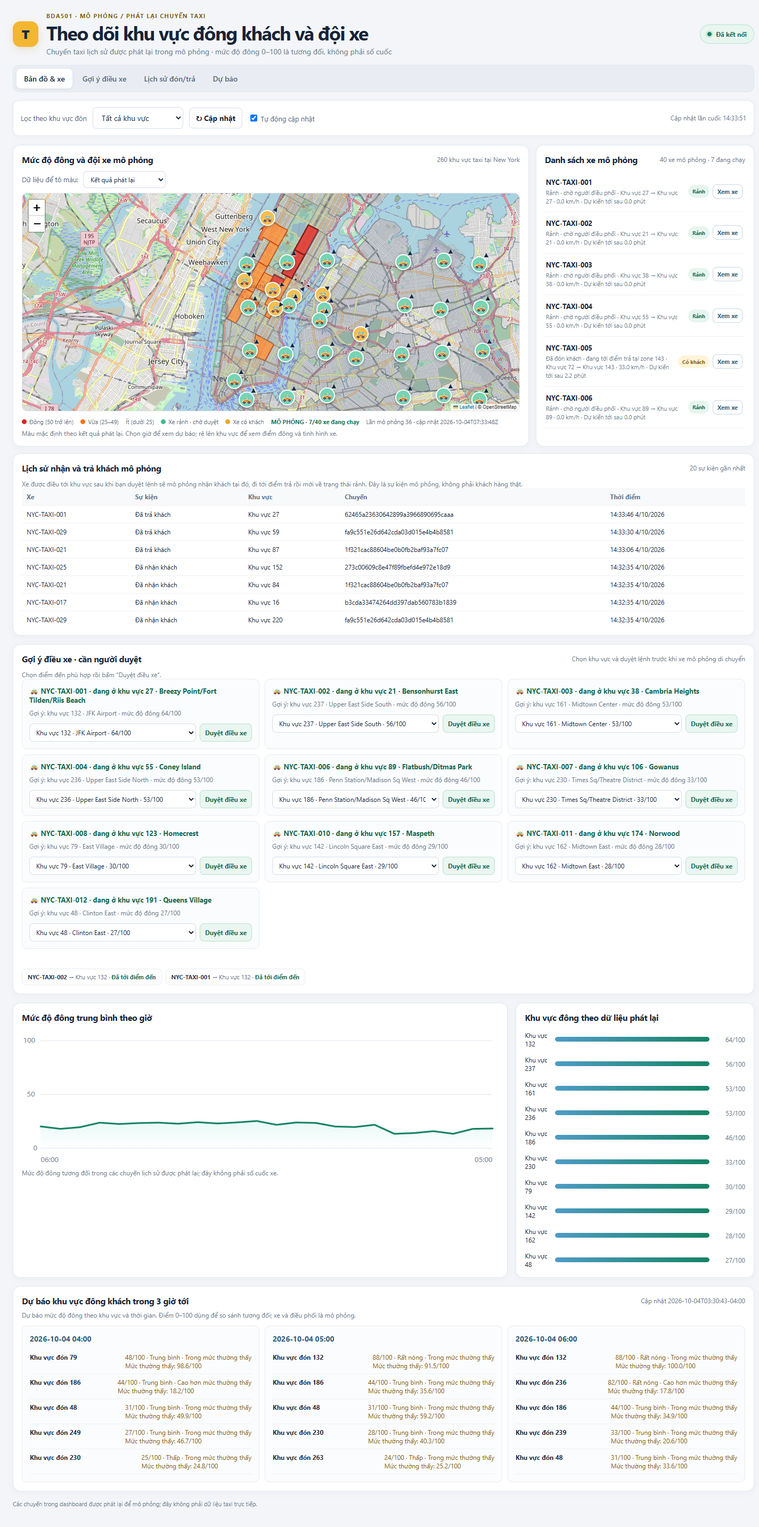
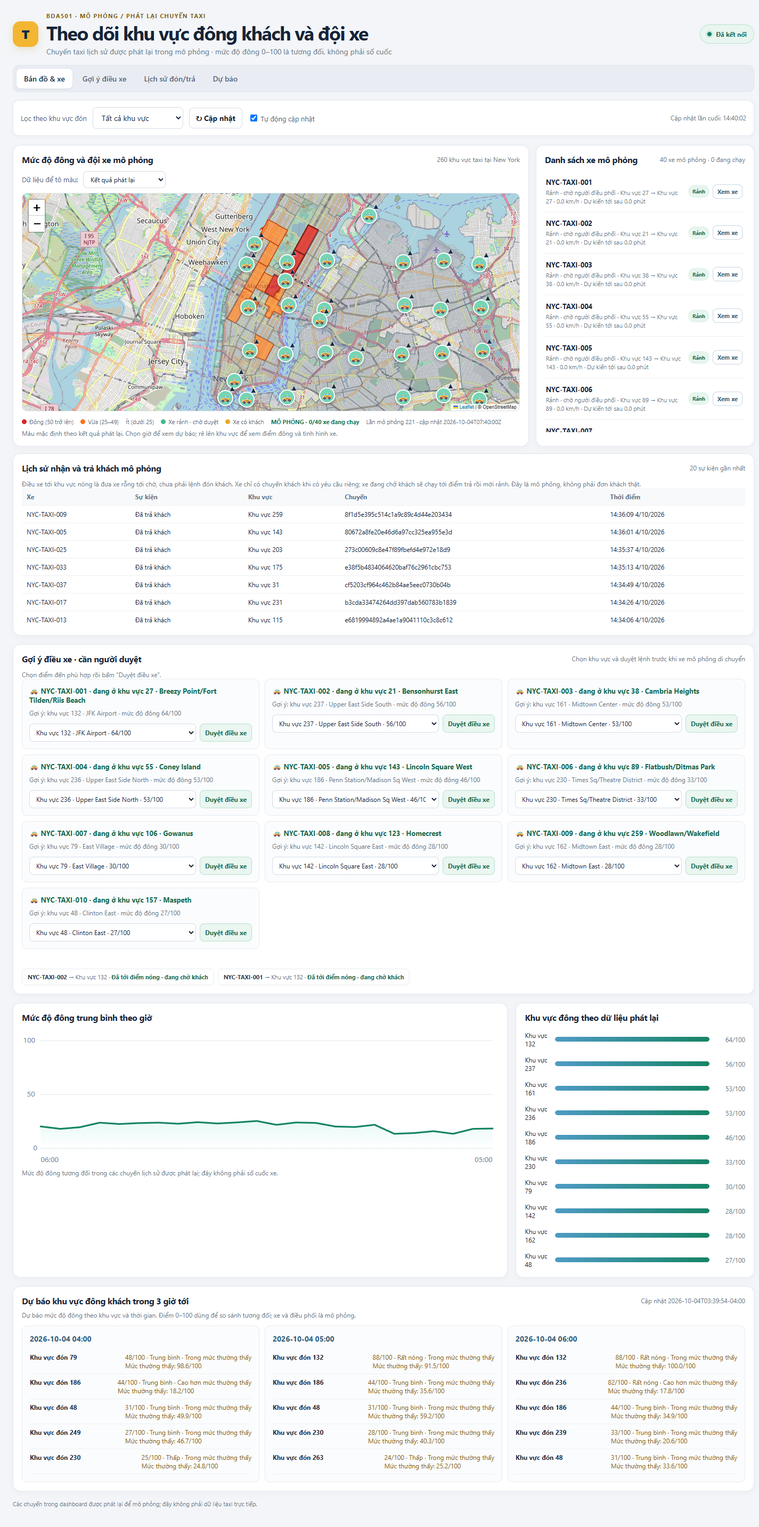
Separate vehicle staging from passenger trips

diff --git a/dashboard/app.py b/dashboard/app.py
@@ -71,7 +71,7 @@ PAGE = """
 
   <div id="ban-do" class="map-layout"><section><div class="section-head"><h2>Mức độ đông và đội xe mô phỏng</h2><span class="hint">260 khu vực taxi tại New York</span></div><div class="map-controls"><label for="mapForecastHour">Dữ liệu để tô màu:</label><select id="mapForecastHour"><option value="replay">Kết quả phát lại</option><option value="forecast-0">Đang tải dự báo...</option></select></div><div id="map" role="region" aria-label="Bản đồ khu vực taxi New York, mức độ đông theo dữ liệu phát lại hoặc dự báo và vị trí xe mô phỏng"></div><div class="legend"><span><i class="dot hotspot"></i>Đông (50 trở lên)</span><span><i class="dot medium"></i>Vừa (25–49)</span><span>Ít (dưới 25)</span><span><i class="dot available"></i>Xe rảnh · chờ duyệt</span><span><i class="dot occupied"></i>Xe có khách</span><span id="movementStatus">—</span><span id="latestVehicle">—</span></div><div class="chart-note">Màu mặc định theo kết quả phát lại. Chọn giờ để xem dự báo; rê lên khu vực để xem điểm đông và tình hình xe.</div></section><section><div class="section-head"><h2>Danh sách xe mô phỏng</h2><span class="hint" id="fleetCount">—</span></div><div id="fleetList" class="fleet-list"><div class="chart-note">Đang tải dữ liệu xe...</div></div></section></div>
 
-  <section id="su-kien" style="margin-bottom:16px"><div class="section-head"><h2>Lịch sử nhận và trả khách mô phỏng</h2><span class="hint">20 sự kiện gần nhất</span></div><div class="chart-note">Xe được điều tới khu vực sau khi bạn duyệt lệnh sẽ mô phỏng nhận khách tại đó, đi tới điểm trả rồi mới về trạng thái rảnh. Đây là sự kiện mô phỏng, không phải khách hàng thật.</div><div class="table-wrap"><table><thead><tr><th>Xe</th><th>Sự kiện</th><th>Khu vực</th><th>Chuyến</th><th>Thời điểm</th></tr></thead><tbody id="vehicleTripEvents"><tr><td colspan="5">Đang tải sự kiện...</td></tr></tbody></table></div></section>
+  <section id="su-kien" style="margin-bottom:16px"><div class="section-head"><h2>Lịch sử nhận và trả khách mô phỏng</h2><span class="hint">20 sự kiện gần nhất</span></div><div class="chart-note">Điều xe tới khu vực nóng là đưa xe rỗng tới chờ, chưa phải lệnh đón khách. Xe chỉ có chuyến khách khi có yêu cầu riêng; xe đang chở khách sẽ chạy tới điểm trả rồi mới rảnh. Đây là mô phỏng, không phải đơn khách thật.</div><div class="table-wrap"><table><thead><tr><th>Xe</th><th>Sự kiện</th><th>Khu vực</th><th>Chuyến</th><th>Thời điểm</th></tr></thead><tbody id="vehicleTripEvents"><tr><td colspan="5">Đang tải sự kiện...</td></tr></tbody></table></div></section>
 
   <section id="dieu-phoi" style="margin-bottom:16px"><div class="section-head"><h2>Gợi ý điều xe · cần người duyệt</h2><span class="hint">Chọn khu vực và duyệt lệnh trước khi xe mô phỏng di chuyển</span></div><div class="chart-note">Chọn điểm đến phù hợp rồi bấm “Duyệt điều xe”.</div><div id="dispatch" class="dispatch-grid"><div class="chart-note">Đang tính đề xuất...</div></div><div id="dispatchMessage" class="dispatch-message" role="status" aria-live="polite"></div><div id="dispatchCommands" class="command-list" aria-live="polite"></div></section>
 
@@ -89,7 +89,7 @@ function updateHotspotMap(){if(!zoneLayer||!zoneLayer.getLayers().length)return;
 async function loadZones(){const zones=await fetch('/api/zones').then(r=>r.json());knownZones=zones;zones.forEach(z=>{const o=document.createElement('option');o.value=z;o.textContent=`Khu vực đón ${z}`;zoneSelect.appendChild(o);});}
  function drawTrend(series){const values=series.map(x=>Number(x.value||0)),max=100,left=30,top=20,width=720,height=190;document.querySelector('#trendEmpty').style.display=values.length?'none':'block';const stamp=value=>{const text=String(value||'');return text.length>=13?`${text.slice(11,13)}:00`:text.slice(0,10);};document.querySelector('#trendStart').textContent=values.length?stamp(series[0].bucket):'—';document.querySelector('#trendEnd').textContent=values.length?stamp(series[series.length-1].bucket):'—';const points=values.map((v,i)=>`${left+(values.length===1?width/2:i*width/(values.length-1))},${top+height-(Math.max(0,Math.min(max,v))/max)*height}`).join(' ');document.querySelector('#linePath').setAttribute('d',points?`M ${points}`:'');document.querySelector('#areaPath').setAttribute('d',points?`M ${left} ${top+height} L ${points} L ${left+width} ${top+height} Z`:'');}
 function renderTripEvents(events){const labels={passenger_pickup:'Đã nhận khách',passenger_dropoff:'Đã trả khách'};document.querySelector('#vehicleTripEvents').innerHTML=events.length?events.map(event=>`<tr><td>${esc(event.vehicle_id)}</td><td>${esc(labels[event.event_type]||event.event_type)}</td><td>Khu vực ${esc(event.zone)}</td><td>${esc(event.ride_id||'—')}</td><td>${esc(new Date(event.event_time).toLocaleString())}</td></tr>`).join(''):'<tr><td colspan="5">Chưa có sự kiện nhận/trả khách. Xe sẽ ghi sự kiện sau khi có hành trình mô phỏng.</td></tr>';}
- function renderDispatch(data){const zoneNameById=new Map(dispatchZoneCatalog.map(zone=>[zone.id,zone.name])),hotspots=data.hotspots||[],scoreByZone=new Map(hotspots.map(zone=>[String(zone.zone),zone])),suggestedZones=hotspots.map(zone=>({id:String(zone.zone),name:zoneNameById.get(String(zone.zone))||'',score:Number(zone.hotspot_score||0)})),suggestedIds=new Set(suggestedZones.map(zone=>zone.id)),allZones=[...suggestedZones,...dispatchZoneCatalog.filter(zone=>!suggestedIds.has(zone.id)).map(zone=>({...zone,score:null}))];document.querySelector('#dispatch').innerHTML=data.recommendations.length?data.recommendations.map(x=>`<div class="dispatch-card" data-recommendation="${esc(x.vehicle_id)}"><strong>🚕 ${esc(x.vehicle_id)} · đang ở khu vực ${esc(x.from_zone)}${zoneNameById.get(String(x.from_zone))?' · '+esc(zoneNameById.get(String(x.from_zone))):''}</strong><span>Gợi ý: khu vực ${esc(x.target_zone)}${zoneNameById.get(String(x.target_zone))?' · '+esc(zoneNameById.get(String(x.target_zone))):''} · mức độ đông ${Number(x.hotspot_score).toFixed(0)}/100</span><div class="dispatch-controls"><select class="dispatch-target" aria-label="Chọn điểm đến cho ${esc(x.vehicle_id)}">${allZones.map(zone=>{const score=scoreByZone.get(zone.id);return `<option value="${esc(zone.id)}" ${zone.id===String(x.target_zone)?'selected':''}>Khu vực ${esc(zone.id)}${zone.name?` · ${esc(zone.name)}`:''}${score?` · ${Number(score.hotspot_score).toFixed(0)}/100`:''}</option>`;}).join('')}</select><button type="button" data-approve-vehicle="${esc(x.vehicle_id)}">Duyệt điều xe</button></div></div>`).join(''):'<div class="chart-note">Hiện không có xe rảnh cần điều phối.</div>';const labels={approved:'Đã duyệt · chờ xe mô phỏng',routing:'Đang tạo tuyến',en_route:'Đang đi tới điểm đã duyệt',arrived:'Đã tới điểm đến',rejected:'Không thực hiện được'};document.querySelector('#dispatchCommands').innerHTML=(data.commands||[]).map(x=>`<span class="command-item"><b>${esc(x.vehicle_id)}</b> → Khu vực ${esc(x.target_zone)} · <span class="command-status">${esc(labels[x.status]||x.status)}</span></span>`).join('');}
+ function renderDispatch(data){const zoneNameById=new Map(dispatchZoneCatalog.map(zone=>[zone.id,zone.name])),hotspots=data.hotspots||[],scoreByZone=new Map(hotspots.map(zone=>[String(zone.zone),zone])),suggestedZones=hotspots.map(zone=>({id:String(zone.zone),name:zoneNameById.get(String(zone.zone))||'',score:Number(zone.hotspot_score||0)})),suggestedIds=new Set(suggestedZones.map(zone=>zone.id)),allZones=[...suggestedZones,...dispatchZoneCatalog.filter(zone=>!suggestedIds.has(zone.id)).map(zone=>({...zone,score:null}))];document.querySelector('#dispatch').innerHTML=data.recommendations.length?data.recommendations.map(x=>`<div class="dispatch-card" data-recommendation="${esc(x.vehicle_id)}"><strong>🚕 ${esc(x.vehicle_id)} · đang ở khu vực ${esc(x.from_zone)}${zoneNameById.get(String(x.from_zone))?' · '+esc(zoneNameById.get(String(x.from_zone))):''}</strong><span>Gợi ý: khu vực ${esc(x.target_zone)}${zoneNameById.get(String(x.target_zone))?' · '+esc(zoneNameById.get(String(x.target_zone))):''} · mức độ đông ${Number(x.hotspot_score).toFixed(0)}/100</span><div class="dispatch-controls"><select class="dispatch-target" aria-label="Chọn điểm đến cho ${esc(x.vehicle_id)}">${allZones.map(zone=>{const score=scoreByZone.get(zone.id);return `<option value="${esc(zone.id)}" ${zone.id===String(x.target_zone)?'selected':''}>Khu vực ${esc(zone.id)}${zone.name?` · ${esc(zone.name)}`:''}${score?` · ${Number(score.hotspot_score).toFixed(0)}/100`:''}</option>`;}).join('')}</select><button type="button" data-approve-vehicle="${esc(x.vehicle_id)}">Duyệt điều xe</button></div></div>`).join(''):'<div class="chart-note">Hiện không có xe rảnh cần điều phối.</div>';const labels={approved:'Đã duyệt · chờ xe mô phỏng',routing:'Đang tạo tuyến',en_route:'Xe rỗng · đang tới khu vực',arrived:'Đã tới điểm nóng · đang chờ khách',rejected:'Không thực hiện được'};document.querySelector('#dispatchCommands').innerHTML=(data.commands||[]).map(x=>`<span class="command-item"><b>${esc(x.vehicle_id)}</b> → Khu vực ${esc(x.target_zone)} · <span class="command-status">${esc(labels[x.status]||x.status)}</span></span>`).join('');}
 async function approveDispatch(button){const card=button.closest('[data-recommendation]'),vehicleId=card?.dataset.recommendation,targetZone=card?.querySelector('.dispatch-target')?.value,message=document.querySelector('#dispatchMessage');if(!vehicleId||!targetZone||!window.confirm(`Xác nhận điều xe ${vehicleId} tới khu vực ${targetZone}?`))return;button.disabled=true;button.textContent='Đang gửi lệnh…';message.textContent='';try{const response=await fetch(`/api/vehicles/${encodeURIComponent(vehicleId)}/dispatch`,{method:'POST',headers:{'Content-Type':'application/json'},body:JSON.stringify({target_zone:targetZone})}),result=await response.json();if(!response.ok)throw new Error(result.error||`HTTP ${response.status}`);message.textContent=`Đã duyệt xe ${vehicleId} tới khu vực ${targetZone}. Mô phỏng sẽ tạo tuyến đường.`;await refresh();}catch(error){message.textContent=`Chưa gửi được lệnh: ${error.message}`;button.disabled=false;button.textContent='Duyệt điều xe';}}
  renderUpcoming=function renderUpcomingCalendarModel(data){const headline=document.querySelector('#forecastHeadline');headline.textContent=data.available?`Cập nhật ${esc(data.generated_at)}`:`Dự báo chưa sẵn sàng: ${esc(data.message||'Chưa có kết quả')}`;document.querySelector('#forecastNote').textContent='Dự báo mức độ đông theo khu vực và thời gian. Điểm 0–100 dùng để so sánh tương đối; xe và điều phối là mô phỏng.';const select=document.querySelector('#mapForecastHour'),previous=select.value||'replay';activeForecasts=data.forecasts||[];select.innerHTML=`<option value="replay">Kết quả phát lại</option>${activeForecasts.map((window,index)=>`<option value="forecast-${index}">${esc(window.label)}</option>`).join('')}`;select.value=previous==='replay'||!activeForecasts[Number(previous.replace('forecast-',''))]? 'replay':previous;select.onchange=updateHotspotMap;document.querySelector('#upcomingHotspots').innerHTML=activeForecasts.map(window=>`<div class="forecast-card"><h3>${esc(window.label)}</h3>${window.zones.slice(0,5).map(zone=>`<div class="forecast-zone"><b>Khu vực đón ${esc(zone.zone)}</b><span>${Number(zone.hotspot_score).toFixed(0)}/100 · ${esc(zone.hotspot_level)} · ${anomalyText(zone.alert_flag,zone.historical_baseline_samples)}<br>${baselineText(zone.historical_baseline_samples,zone.historical_mean_score)}</span></div>`).join('')||'<div class="chart-note">Chưa có khu vực để dự báo.</div>'}</div>`).join('')||'<div class="chart-note">Chưa có dự báo. Thử cập nhật lại sau.</div>';updateHotspotMap();};
   let refreshInProgress=false;
@@ -106,7 +106,7 @@ function liveVehicleIcon(vehicle){const heading=Number(vehicle.heading_degrees||
 function liveVehiclePopup(vehicle){const status=vehicle.route_status||(vehicle.status==='occupied'?'Đang chở khách · hoàn tất chuyến mô phỏng':'Rảnh · chờ người điều phối');return `<b>${esc(vehicle.vehicle_id)}</b><br>Trạng thái: ${esc(status)}<br>Tuyến: Khu ${esc(vehicle.pickup_zone)} → Khu ${esc(vehicle.dropoff_zone)}<br>Tốc độ: ${Number(vehicle.speed_kmh||0).toFixed(1)} km/h · Hướng: ${Number(vehicle.heading_degrees||0).toFixed(0)}°<br>Tiến độ: ${Number(vehicle.progress_pct||0).toFixed(0)}% · ETA: ${Number(vehicle.eta_minutes||0).toFixed(1)} phút`;}
 function focusVehicle(vehicleId){const marker=liveMarkers[vehicleId];if(!marker||!map)return;document.querySelector('#ban-do').scrollIntoView({behavior:'smooth',block:'start'});map.stop();map.setView(marker.getLatLng(),Math.max(map.getZoom(),14),{animate:false});marker.openPopup();marker.setZIndexOffset(1800);window.setTimeout(()=>marker.setZIndexOffset(1000),2500);}
 function animateLiveMarker(marker,target){if(marker._motionFrame)cancelAnimationFrame(marker._motionFrame);const start=marker.getLatLng(),started=performance.now(),duration=1800;const tick=now=>{const progress=Math.min(1,(now-started)/duration);marker.setLatLng([start.lat+(target[0]-start.lat)*progress,start.lng+(target[1]-start.lng)*progress]);if(progress<1)marker._motionFrame=requestAnimationFrame(tick);};marker._motionFrame=requestAnimationFrame(tick);}
-renderFleet=function renderLiveFleet(items){fleetVehicles=items;const activeDispatch=['routing','en_route'],available=items.filter(x=>x.status==='available'&&!activeDispatch.includes(x.dispatch_status)).length,occupied=items.filter(x=>x.status==='occupied').length,moving=items.filter(x=>Number(x.speed_kmh||0)>0).length;document.querySelector('#fleetCount').textContent=`${items.length} xe mô phỏng · ${moving} đang chạy`;document.querySelector('#movementStatus').textContent=`MÔ PHỎNG · ${moving}/${items.length} xe đang chạy`;document.querySelector('#fleetList').innerHTML=items.length?items.map(v=>`<div class="vehicle"><div class="vehicle-info"><div class="vehicle-id">${esc(v.vehicle_id)}</div><div class="vehicle-meta">${esc(v.route_status||'Đang chạy')} · Khu vực ${esc(v.pickup_zone)} → Khu vực ${esc(v.dropoff_zone)} · ${Number(v.speed_kmh||0).toFixed(1)} km/h · Dự kiến tới sau ${Number(v.eta_minutes||0).toFixed(1)} phút</div></div><div class="vehicle-actions"><span class="status ${v.status}">${v.status==='occupied'?'Có khách':v.dispatch_status==='routing'?'Đang tạo tuyến':v.dispatch_status==='en_route'?'Đang tới khu vực đã duyệt':v.dispatch_status==='arrived'?'Đã tới điểm đến':'Rảnh'}</span><button class="vehicle-locate" type="button" data-focus-vehicle="${esc(v.vehicle_id)}" aria-label="Xem vị trí xe ${esc(v.vehicle_id)}">Xem xe</button></div></div>`).join(''):'<div class="chart-note">Chưa có snapshot xe.</div>';if(markers){const bounds=[];const activeIds=new Set(items.map(v=>v.vehicle_id));items.forEach(vehicle=>{const target=[Number(vehicle.latitude),Number(vehicle.longitude)];bounds.push(target);let marker=liveMarkers[vehicle.vehicle_id];if(!marker){marker=L.marker(target,{icon:liveVehicleIcon(vehicle),zIndexOffset:1000}).addTo(markers);liveMarkers[vehicle.vehicle_id]=marker;}else{marker.setIcon(liveVehicleIcon(vehicle));animateLiveMarker(marker,target);}marker.bindPopup(liveVehiclePopup(vehicle));});Object.keys(liveMarkers).forEach(id=>{if(!activeIds.has(id)){if(liveMarkers[id]._motionFrame)cancelAnimationFrame(liveMarkers[id]._motionFrame);markers.removeLayer(liveMarkers[id]);delete liveMarkers[id];}});if(bounds.length&&!window.mapHasFitted){map.fitBounds(bounds,{padding:[30,30],maxZoom:12});window.mapHasFitted=true;}}updateHotspotMap();document.querySelector('#latestVehicle').textContent=items.length?`Lần mô phỏng ${items[0].simulation_cycle} · cập nhật ${items[0].updated_at}`:'Chưa có snapshot';};
+renderFleet=function renderLiveFleet(items){fleetVehicles=items;const activeDispatch=['routing','en_route'],available=items.filter(x=>x.status==='available'&&!activeDispatch.includes(x.dispatch_status)).length,occupied=items.filter(x=>x.status==='occupied').length,moving=items.filter(x=>Number(x.speed_kmh||0)>0).length;document.querySelector('#fleetCount').textContent=`${items.length} xe mô phỏng · ${moving} đang chạy`;document.querySelector('#movementStatus').textContent=`MÔ PHỎNG · ${moving}/${items.length} xe đang chạy`;document.querySelector('#fleetList').innerHTML=items.length?items.map(v=>`<div class="vehicle"><div class="vehicle-info"><div class="vehicle-id">${esc(v.vehicle_id)}</div><div class="vehicle-meta">${esc(v.route_status||'Đang chạy')} · Khu vực ${esc(v.pickup_zone)} → Khu vực ${esc(v.dropoff_zone)} · ${Number(v.speed_kmh||0).toFixed(1)} km/h · Dự kiến tới sau ${Number(v.eta_minutes||0).toFixed(1)} phút</div></div><div class="vehicle-actions"><span class="status ${v.status}">${v.status==='occupied'?'Có khách':v.dispatch_status==='routing'?'Đang tạo tuyến':v.dispatch_status==='en_route'?'Xe rỗng · đang tới khu vực':v.dispatch_status==='staged'?'Rảnh · chờ khách tại khu vực':'Rảnh'}</span><button class="vehicle-locate" type="button" data-focus-vehicle="${esc(v.vehicle_id)}" aria-label="Xem vị trí xe ${esc(v.vehicle_id)}">Xem xe</button></div></div>`).join(''):'<div class="chart-note">Chưa có snapshot xe.</div>';if(markers){const bounds=[];const activeIds=new Set(items.map(v=>v.vehicle_id));items.forEach(vehicle=>{const target=[Number(vehicle.latitude),Number(vehicle.longitude)];bounds.push(target);let marker=liveMarkers[vehicle.vehicle_id];if(!marker){marker=L.marker(target,{icon:liveVehicleIcon(vehicle),zIndexOffset:1000}).addTo(markers);liveMarkers[vehicle.vehicle_id]=marker;}else{marker.setIcon(liveVehicleIcon(vehicle));animateLiveMarker(marker,target);}marker.bindPopup(liveVehiclePopup(vehicle));});Object.keys(liveMarkers).forEach(id=>{if(!activeIds.has(id)){if(liveMarkers[id]._motionFrame)cancelAnimationFrame(liveMarkers[id]._motionFrame);markers.removeLayer(liveMarkers[id]);delete liveMarkers[id];}});if(bounds.length&&!window.mapHasFitted){map.fitBounds(bounds,{padding:[30,30],maxZoom:12});window.mapHasFitted=true;}}updateHotspotMap();document.querySelector('#latestVehicle').textContent=items.length?`Lần mô phỏng ${items[0].simulation_cycle} · cập nhật ${items[0].updated_at}`:'Chưa có snapshot';};
 document.querySelector('#fleetList').addEventListener('click',event=>{const button=event.target.closest('[data-focus-vehicle]');if(button)focusVehicle(button.dataset.focusVehicle);});
 </script></body></html>
 """

diff --git a/streaming/producer.py b/streaming/producer.py
@@ -189,26 +189,6 @@ def emit_vehicle_trip_event(state, event_type):
     print(f"[TRIP_EVENT] {event_type}: {state['vehicle_id']} zone {zone}", flush=True)
 
 
-def start_passenger_trip_after_dispatch(state):
-    """Simulate a waiting rider after an approved reposition reaches its pickup zone."""
-    state["trip_number"] += 1
-    state["active_ride_id"] = state.get("dispatch_command_id") or uuid.uuid4().hex
-    state["trip_source"] = "human_approved_dispatch_simulation"
-    state["status"] = "occupied"
-    state["dispatch_status"] = "passenger_trip"
-    state["dropoff_zone"] = str(4 + ((state["vehicle_index"] * 29 + state["trip_number"] * 23) % 260))
-    state["destination_latitude"], state["destination_longitude"] = destination_for(
-        state["vehicle_index"], state["trip_number"]
-    )
-    state["route_start_latitude"] = state["latitude"]
-    state["route_start_longitude"] = state["longitude"]
-    state["pickup_event_emitted"] = True
-    clear_route(state)
-    state["route_retry_at"] = 0.0
-    state["route_error"] = None
-    emit_vehicle_trip_event(state, "passenger_pickup")
-
-
 def request_drive_route(state, now):
     """Fetch an OSRM driving route; leave the vehicle stopped if unavailable."""
     global last_route_request_at
@@ -261,13 +241,14 @@ def complete_vehicle_route(state):
         state["trip_source"] = None
         state["pickup_event_emitted"] = False
     else:
-        state["dispatch_status"] = "arrived"
+        state["dispatch_status"] = "staged"
         state["pickup_zone"] = state["dispatch_target_zone"] or state["pickup_zone"]
+        state["destination_latitude"] = state["latitude"]
+        state["destination_longitude"] = state["longitude"]
         dispatch_commands.update_one(
             {"command_id": state["dispatch_command_id"]},
             {"$set": {"status": "arrived", "arrived_at": time.strftime("%Y-%m-%dT%H:%M:%SZ", time.gmtime())}},
         )
-        start_passenger_trip_after_dispatch(state)
 
 
 def process_dispatch_commands():
@@ -324,7 +305,7 @@ def advance_vehicle(state, elapsed_seconds):
     dispatch_status = state["dispatch_status"]
     if status == "available" and dispatch_status not in {"routing", "en_route"}:
         state["speed_kmh"] = 0.0
-        return 0.0, 0.0, 0.0, 100.0 if dispatch_status == "arrived" else 0.0
+        return 0.0, 0.0, 0.0, 100.0 if dispatch_status == "staged" else 0.0
     speed_kmh = 28 + (state["vehicle_index"] * 7 + state["trip_number"]) % 24 if status == "occupied" else 14 + state["vehicle_index"] % 10
     now = time.monotonic()
     if not state["route_coordinates"] and not request_drive_route(state, now):
@@ -385,9 +366,9 @@ def send_vehicle_snapshot(cycle_number):
         elif state["dispatch_status"] == "routing":
             route_status = "Đã duyệt · đang tạo tuyến đường"
         elif state["dispatch_status"] == "en_route":
-            route_status = f"Đang tới zone {state['dispatch_target_zone']} · đã được duyệt"
-        elif state["dispatch_status"] == "arrived":
-            route_status = f"Đã tới zone {state['dispatch_target_zone']} theo lệnh điều phối"
+            route_status = f"Đang tới zone {state['dispatch_target_zone']} · xe rỗng, chưa có khách"
+        elif state["dispatch_status"] == "staged":
+            route_status = f"Đã tới zone {state['pickup_zone']} · xe rảnh, đang chờ khách"
         elif state["route_error"]:
             route_status = "Đang chờ thử lại tuyến đường"
         else:

diff --git a/README.md b/README.md
@@ -139,11 +139,11 @@ Feature engineering mặc định được thực hiện trong `spark/train_mode
 
 Batch ưu tiên dùng các file NYC TLC Parquet đặt tại `Nyc taxi trip record/Nyc taxi trip record`: bước chuẩn bị tạo TSV pickup-zone/hour và Counter baseline độc lập; HDFS lưu raw Parquet cùng TSV; Hadoop Streaming thực thi mapper/combiner/reducer bằng LocalJobRunner; Spark ETL đọc Parquet, nối zone lookup và tạo curated dataset. Nếu thư mục không có, pipeline tự fallback về CSV mô phỏng deterministic. Producer lấy tối đa `SIMULATION_SOURCE_ROWS` bản ghi từ cùng nguồn Parquet để chấm nhu cầu. Riêng đội xe phát snapshot 40 xe vào `taxi_vehicles` và event nhận/trả khách vào `taxi_vehicle_trip_events`; fleet tracker lưu snapshot hiện tại ở `taxi.vehicle_status` và lịch sử event ở `taxi.vehicle_trip_events`.
 
-Dashboard tiếng Việt tại `http://localhost:8088/` có bộ lọc pickup zone, bản đồ OpenStreetMap, ranking replay, forecast ba giờ, điều phối cần người duyệt và bảng 20 event nhận/trả khách mô phỏng. Sau khi người điều phối duyệt xe tới zone đón, simulator tạo khách mô phỏng tại điểm đến, phát `passenger_pickup`, chạy theo tuyến OSRM tới zone trả, phát `passenger_dropoff`, rồi mới chuyển xe về trạng thái rảnh. Xe đang có khách không được điều phối; chuyến lịch sử dùng để chấm nhu cầu vẫn tách biệt với hành trình đội xe. Các event mô phỏng không đại diện hành khách ngoài đời. Producer chạy liên tục và dừng bằng `docker compose stop kafka-producer`.
+Dashboard tiếng Việt tại `http://localhost:8088/` có bộ lọc pickup zone, bản đồ OpenStreetMap, ranking replay, forecast ba giờ, điều phối cần người duyệt và bảng 20 event nhận/trả khách mô phỏng. Lệnh điều xe tới zone nóng chỉ đưa xe rỗng tới chờ; tới nơi xe vẫn rảnh và không tự sinh khách. `passenger_pickup`/`passenger_dropoff` hiện ghi nhận các chuyến mô phỏng đã có khách từ trạng thái khởi tạo; dự báo zone nóng chưa phải đơn khách. Xe đang có khách không được điều phối; chuyến lịch sử dùng để chấm nhu cầu vẫn tách biệt với hành trình đội xe. Các event mô phỏng không đại diện hành khách ngoài đời. Producer chạy liên tục và dừng bằng `docker compose stop kafka-producer`.
 
 **Vì sao một zone nóng:** batch đếm chuyến đón theo zone, ngày, giờ và thứ trong tuần. Score = (số chuyến zone ÷ số chuyến cao nhất giữa các zone trong cùng ngày/giờ/thứ) × 100. GBTRegressor dự báo score tương đối từ zone, giờ, thứ; không dùng KMeans. Streaming chấm sự kiện replay; map forecast chấm từng LocationID cho giờ tương lai. Điểm hotspot không phải số chuyến thực tế hay nhu cầu live.
 
-Producer dùng simulation clock theo America/New_York, phát event chuyến lịch sử tăng tốc theo `SIMULATION_EVENT_TIME_STEP_SECONDS`. Đội xe dùng đồng hồ riêng mặc định nhanh gấp 12 lần thời gian thực (`SIMULATION_VEHICLE_TIME_SCALE`), để hành trình mô phỏng có thể quan sát được trong lúc demo. Snapshot đội xe phát định kỳ; xe có tọa độ đích, hướng, tốc độ, tiến độ và ETA. Xe rảnh không tự chọn điểm đón: người điều phối chọn zone và xác nhận; lệnh được lưu trong MongoDB rồi producer lấy để gọi OSRM Route API với hồ sơ `driving`. Khi tới zone đón, khách mô phỏng được nhận; xe tiếp tục theo tuyến đường tới zone trả và chỉ chuyển sang rảnh sau event trả khách. Event chi tiết được lưu ở `taxi.vehicle_trip_events`. Đây là mô phỏng, không phải GPS taxi hay yêu cầu khách thật. Polygon bản đồ dựa trên bộ ranh giới NYC TLC Taxi Zone; màu theo score forecast của từng LocationID cho giờ được chọn.
+Producer dùng simulation clock theo America/New_York, phát event chuyến lịch sử tăng tốc theo `SIMULATION_EVENT_TIME_STEP_SECONDS`. Đội xe dùng đồng hồ riêng mặc định nhanh gấp 12 lần thời gian thực (`SIMULATION_VEHICLE_TIME_SCALE`), để hành trình mô phỏng có thể quan sát được trong lúc demo. Snapshot đội xe phát định kỳ; xe có tọa độ đích, hướng, tốc độ, tiến độ và ETA. Xe rảnh không tự chọn điểm đến: người điều phối chọn zone nóng và xác nhận; lệnh được lưu trong MongoDB rồi producer lấy để gọi OSRM Route API với hồ sơ `driving`. Xe đi tới zone trong trạng thái rỗng, tới nơi chuyển sang rảnh chờ khách. Chuyến mô phỏng đã có khách được tách riêng: `passenger_pickup` → xe có khách chạy tới zone trả → `passenger_dropoff` → xe trở lại rảnh. Hiện dự án chưa nhận đơn khách riêng, vì vậy dự báo nóng chỉ hỗ trợ đưa xe tới chờ, không tự sinh cuốc. Event chi tiết được lưu ở `taxi.vehicle_trip_events`. Đây là mô phỏng, không phải GPS taxi hay yêu cầu khách thật. Polygon bản đồ dựa trên bộ ranh giới NYC TLC Taxi Zone; màu theo score forecast của từng LocationID cho giờ được chọn.
 
 Điều chỉnh tốc độ hoặc số event:
 
